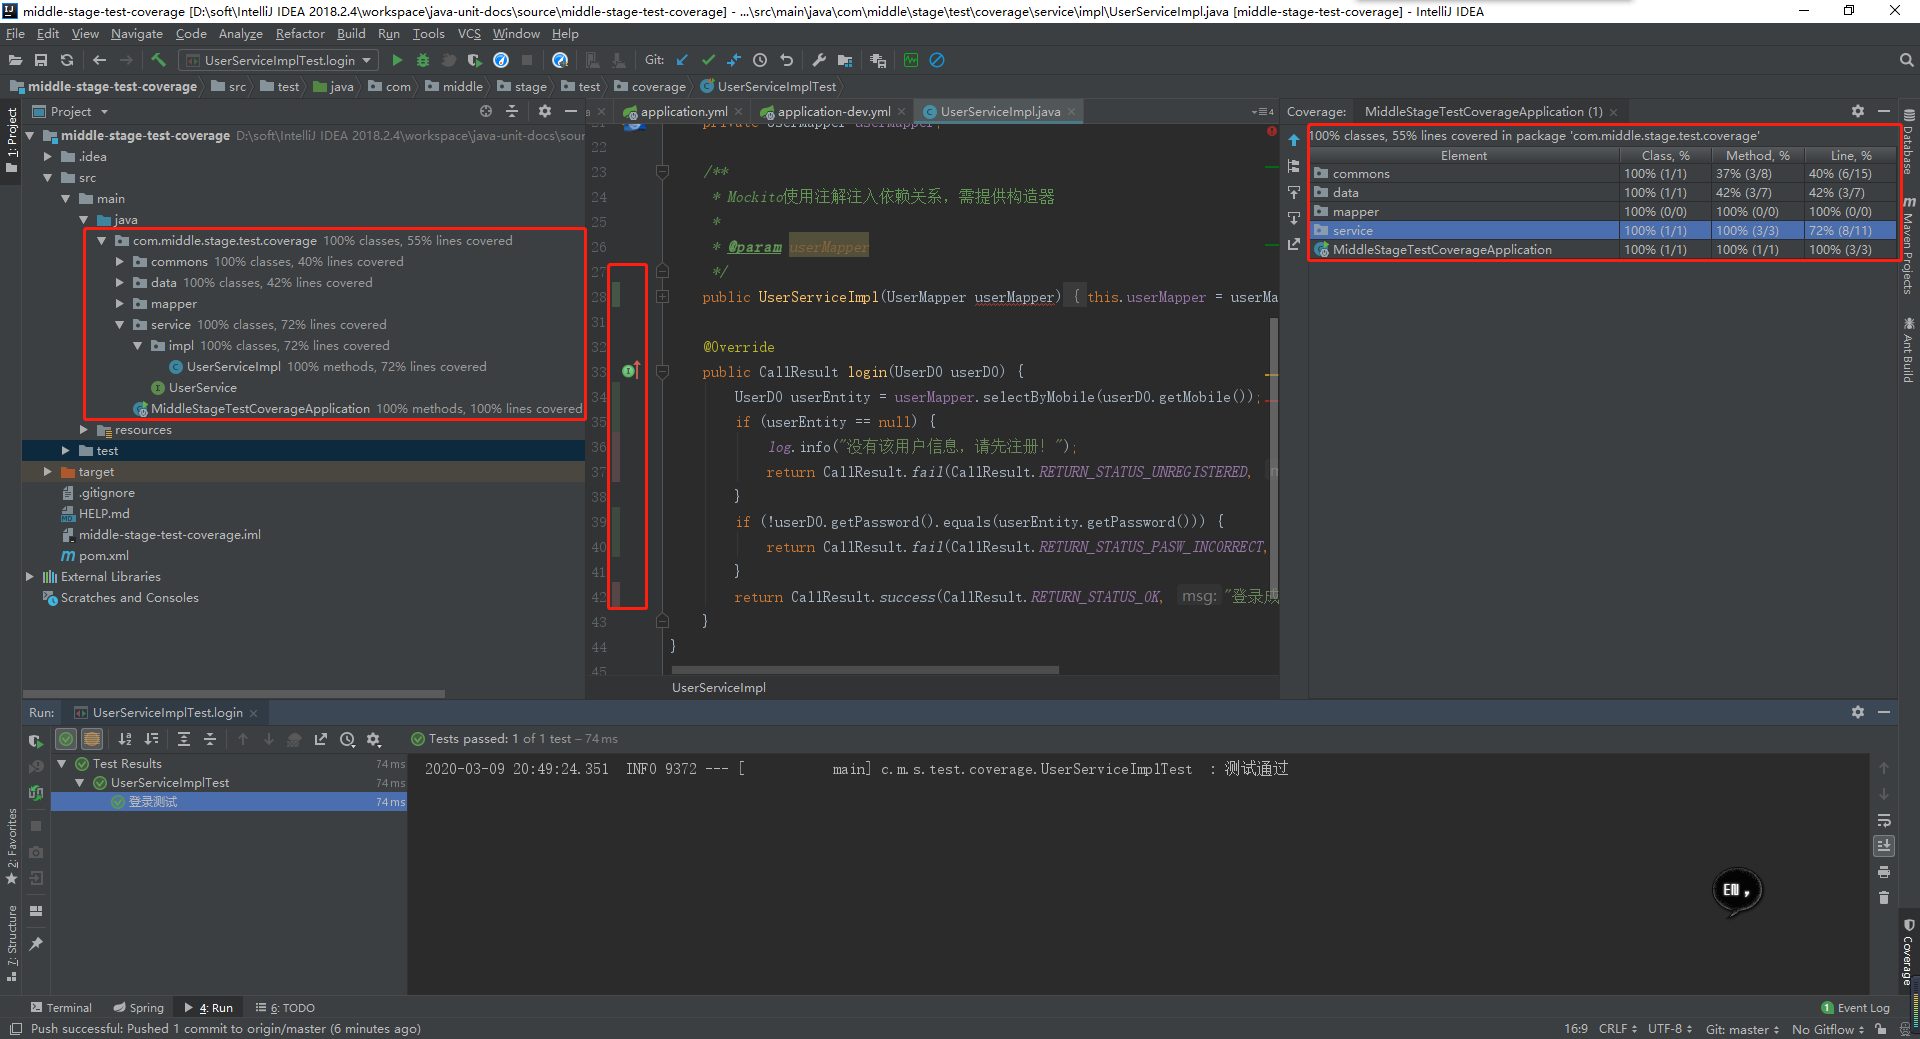
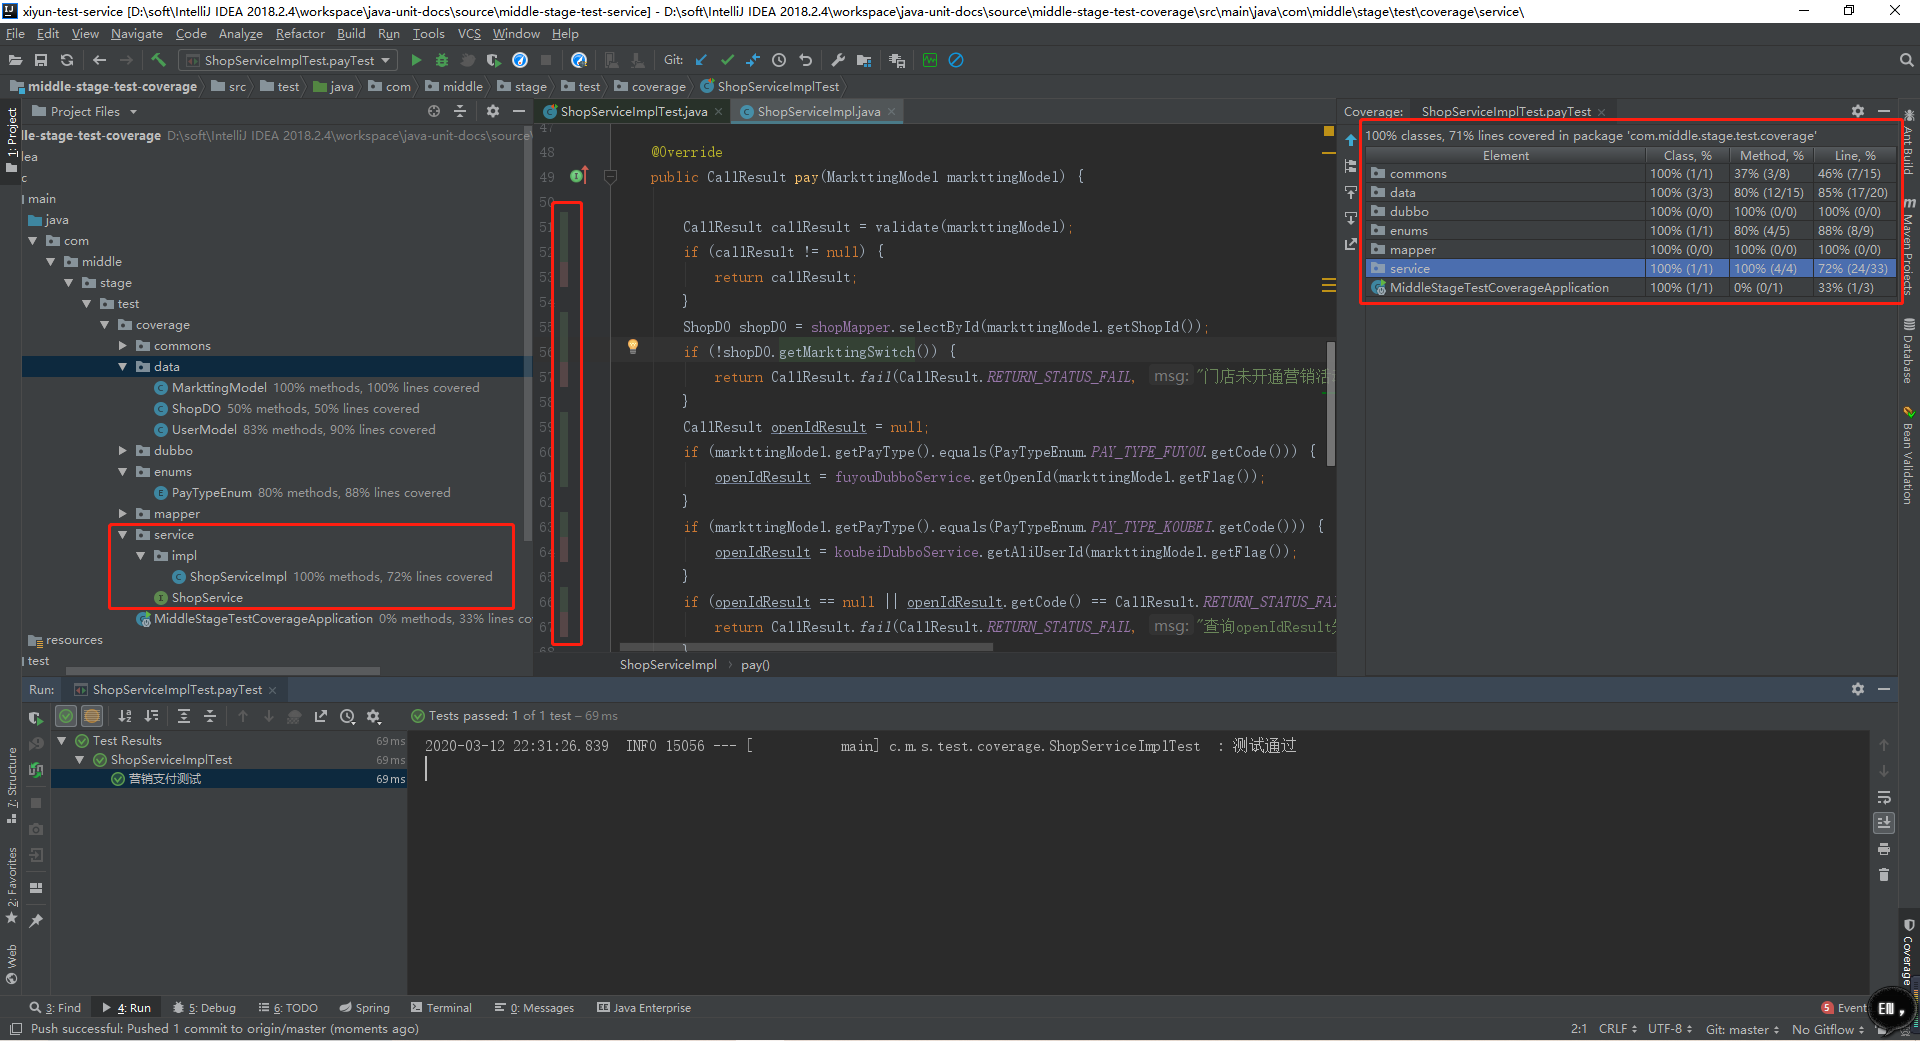
修改覆盖率章节演示demo

diff --git a/docs/02-testing-method/04-coverage.md b/docs/02-testing-method/04-coverage.md
@@ -12,72 +12,145 @@ group:
 设想一下，假如在做支付系统，整个交易环节流程如下：
 ![](../assets/flowchart.png)
 
-当一个环节出现问题时，将导致整体交易失败。所以我们做单元测试尽可能的保证每一个环节都会被测试到，这样可以很大程度规避 Bug，从而减少核心业务的`出错几率`，保证服务的稳定性。
+当一个环节出现问题时，都将导致整体交易失败。所以我们做单元测试尽可能的保证每一个环节都会被测试到，这样可以很大程度规避 Bug，从而减少核心业务的`出错几率`，保证服务的稳定性。
 
 单元测试的基本目标：代码覆盖率达到 70% ；核心的应用、业务、模块的语句覆盖率要达到 100%。[《Java 开发手册》](https://github.com/alibaba/p3c/blob/master/p3c-gitbook/%E5%8D%95%E5%85%83%E6%B5%8B%E8%AF%95.md#L17)
 
 
 ## 工具
 
-可以通过 IDEA 自带的工具来查看单元测试的代码覆盖率。
+您可以通过 IDEA 自带的工具来查看单元测试的代码覆盖率。
 
-只需要将鼠标光标停放到被测试的方法上，通过 Ctrl + Shift + T 生成单元测试方法，运行测试方法时选择 Run login() whith Coverage 选项，在测试完成后，通过 Coverage 工具栏查看覆盖率即可。
+您只需要将鼠标光标停放到被测试的方法上，通过 Ctrl + Shift + T (idea for windows 快捷键）生成单元测试方法，运行测试方法时选择 Run login() whith Coverage 选项，在测试完成后，通过 Coverage 工具栏查看覆盖率即可。
 
 ## 演示 [Demo](https://github.com/xiyun-international/java-unit-docs/tree/master/source/middle-stage-test-coverage)
 
-这里的演示 Demo 与业务测试一节的 Demo 完全一致。只是单元测试方法是通过 Ctrl + Shift + T (idea for windows 快捷键）创建。您在实际运行时，直接选择 Run login() whith Coverage 选项运行即可。
+### Service 代码
+
+此处业务代码只处理到调用会员中心保持C端信息。
+
+```java
+public class ShopServiceImpl implements ShopService {
+
+    private ShopMapper shopMapper;
+    private FuyouDubboService fuyouDubboService;
+    private KoubeiDubboService koubeiDubboService;
+    private UserDubboService userDubboService;
+
+    /**
+     * Mockito使用注解注入依赖关系，需提供构造器
+     *
+     * @param fuyouDubboService
+     * @param koubeiDubboService
+     * @param userDubboService
+     */
+    public ShopServiceImpl(FuyouDubboService fuyouDubboService, KoubeiDubboService koubeiDubboService, UserDubboService userDubboService, ShopMapper shopMapper) {
+        this.fuyouDubboService = fuyouDubboService;
+        this.koubeiDubboService = koubeiDubboService;
+        this.userDubboService = userDubboService;
+        this.shopMapper = shopMapper;
+    }
+
+    @Override
+    public CallResult pay(MarkttingModel markttingModel) {
+
+        CallResult callResult = validate(markttingModel);
+        if (callResult != null) {
+            return callResult;
+        }
+        ShopDO shopDO = shopMapper.selectById(markttingModel.getShopId());
+        if (!shopDO.getMarktingSwitch()) {
+            return CallResult.fail(CallResult.RETURN_STATUS_FAIL, "门店未开通营销活动!");
+        }
+        CallResult openIdResult = null;
+        if (markttingModel.getPayType().equals(PayTypeEnum.PAY_TYPE_FUYOU.getCode())) {
+            openIdResult = fuyouDubboService.getOpenId(markttingModel.getFlag());
+        }
+        if (markttingModel.getPayType().equals(PayTypeEnum.PAY_TYPE_KOUBEI.getCode())) {
+            openIdResult = koubeiDubboService.getAliUserId(markttingModel.getFlag());
+        }
+        if (openIdResult == null || openIdResult.getCode() == CallResult.RETURN_STATUS_FAIL) {
+            return CallResult.fail(CallResult.RETURN_STATUS_FAIL, "查询openIdResult失败!");
+        }
+        String openId = openIdResult.getContent();
+        return userDubboService.getUserInfo(openId);
+    }
+}
+```
+
+
+
+### 测试代码
+
+此处的单元测试方法已通过 Ctrl + Shift + T (idea for windows 快捷键）创建。您在实际运行时，直接选择 Run login() whith Coverage 选项运行即可。
 
 ```java
 @Slf4j
 @SpringBootTest
-class UserServiceImplTest {
-    @Mock
+class ShopServiceImplTest {
+
     //通过注解模拟依赖的接口或类
-    private UserMapper mockUserMapper;
+    @Mock
+    private ShopMapper mockShopMapper;
+    @Mock
+    private FuyouDubboService mockFuyouDubboService;
+    @Mock
+    private KoubeiDubboService mockKoubeiDubboService;
+    @Mock
+    private UserDubboService mockUserDubboService;
 
-    @InjectMocks
     //通过注解自动注入依赖关系
-    private UserServiceImpl userService;
-
-    //登录参数
-    static UserDO userDO;
-
-    //模拟查询结果
-    static UserDO userResult;
-
-    static String mobile = "17612345678";
-
-    static String password = "123456";
+    @InjectMocks
+    private ShopServiceImpl shopService;
+    //参数
+    static MarkttingModel markttingModel;
+    //模拟门店结果
+    static ShopDO shopResult;
+    //模拟openID查询结果
+    static CallResult mockOpenIdResult;
+    static CallResult mockUserResult;
+    static int shopId = 999;
+    static String openId = "asdasd56789asdfgjhkklllasd";
+    static String falg = "123456";
+    static UserModel mockUserModel;
 
 
     @BeforeAll
     static void beforLoginTest() {
-        userDO = new UserDO();
-        userDO.setMobile(mobile);
-        userDO.setPassword(password);
+        markttingModel = new MarkttingModel();
+        markttingModel.setPayAmount(new BigDecimal("26.75"));
+        markttingModel.setPayType(PayTypeEnum.PAY_TYPE_FUYOU.getCode());
+        markttingModel.setShopId(shopId);
+        markttingModel.setFlag(falg);
 
-        userResult = new UserDO();
-        userResult.setMobile(mobile);
-        userResult.setPassword("654321");
+        shopResult = new ShopDO();
+        shopResult.setId(shopId);
+        shopResult.setMarktingSwitch(true);
+
+        mockOpenIdResult = new CallResult(CallResult.RETURN_STATUS_OK, "查询成功", "asdasd56789asdfgjhkklllasd");
+        mockUserModel = new UserModel("zyq", openId, "17612345678", "zyq");
+        mockUserResult = new CallResult(CallResult.RETURN_STATUS_OK, "查询成功", JSONObject.toJSONString(mockUserModel));
+
     }
 
-
     @Test
-    @DisplayName("登录测试")
-    void login() {
+    @DisplayName("营销支付测试")
+    void payTest() {
 
-        //验证测试用例是否创建
-        Assertions.assertNotNull(userDO, "userDO is null");
+        Assertions.assertNotNull(markttingModel, "markttingModel can not be null!");
+        Assertions.assertNotNull(shopResult, "shopResult can not be null!");
+        Assertions.assertNotNull(mockOpenIdResult, "openIdResult can not be null!");
+        Assertions.assertNotNull(mockUserModel, "userModel can not be null!");
 
-        when(mockUserMapper.selectByMobile(mobile)).thenReturn(userResult);
+        when(mockShopMapper.selectById(shopId)).thenReturn(shopResult);
+        when(mockFuyouDubboService.getOpenId(falg)).thenReturn(mockOpenIdResult);
+        when(mockUserDubboService.getUserInfo(openId)).thenReturn(mockUserResult);
 
-        CallResult loginCallResult = userService.login(userDO);
+        CallResult callResult = shopService.pay(markttingModel);
+        Assertions.assertEquals(CallResult.RETURN_STATUS_OK, callResult.getCode());
+        UserModel userModel = JSONObject.parseObject(callResult.getContent(), UserModel.class);
+        Assertions.assertEquals(mockUserModel.getMobile(), userModel.getMobile());
 
-        //验证是否执行
-        verify(mockUserMapper).selectByMobile(mobile);
-
-        //验证是否与我们预期的状态值相符
-        Assertions.assertEquals(CallResult.RETURN_STATUS_PASW_INCORRECT, loginCallResult.getCode());
         log.info("测试通过");
     }
 }
